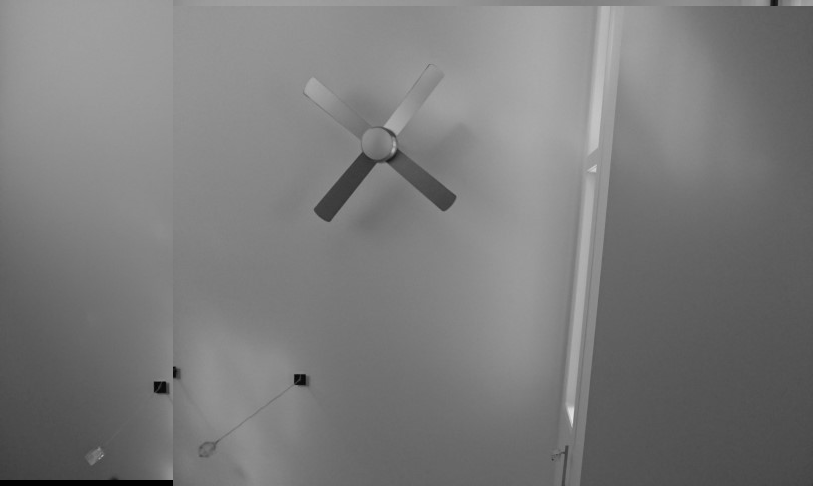
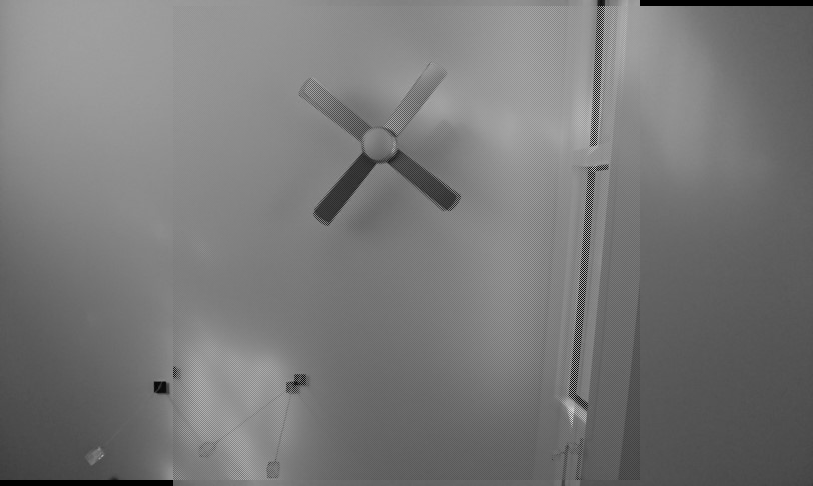
Starting to break up the code into methods and to look at the dithering

diff --git a/map_building/test.py b/map_building/test.py
@@ -12,22 +12,11 @@ import cv2
 import statistics
 
 
-def go(existing, new, out):
-    img_new = cv2.imread(new, 0)  # Taken 1m away.
-    img_existing = cv2.imread(existing, 0)  # Initial/existing/baseline image.
+def offsets(matches, kp_existing, kp_new):
+    """Given SIFT and knnMatch data, return the offset between the images.
 
-    sift = cv2.xfeatures2d.SIFT_create()
-
-    kp_new, des_new = sift.detectAndCompute(img_new, None)
-    kp_existing, des_existing = sift.detectAndCompute(img_existing, None)
-
-    FLANN_INDEX_KDTREE = 1
-    index_params = dict(algorithm=FLANN_INDEX_KDTREE, trees = 5)
-    search_params = dict(checks=50)   # or pass empty dictionary
-    flann = cv2.FlannBasedMatcher(index_params, search_params)
-
-    matches = flann.knnMatch(des_new, des_existing, k=2)
-
+    Assumes some overlap.
+    """
     offsets_x = []
     offsets_y = []
     for i,(m, n) in enumerate(matches):
@@ -43,45 +32,68 @@ def go(existing, new, out):
     offset_x = int(statistics.median(offsets_x))
     offset_y = int(statistics.median(offsets_y))
 
-    # Pad out existing with transparency.
-    img_existing = cv2.copyMakeBorder(
-        img_existing,
-#        cv2.cvtColor(img_existing, cv2.COLOR_GRAY2RGBA),
-        -offset_y if offset_y < 0 else 0,
+    return offset_x, offset_y
+
+
+def add_to_map(img_map, img_new, offset_x, offset_y):
+    """Apply a new image to an existing map and return."""
+    # Pad out new image to fit map size + offsets.
+    img_result = cv2.copyMakeBorder(
+        img_new,
         offset_y if offset_y > 0 else 0,
-        -offset_x if offset_x < 0 else 0,
+        -offset_y if offset_y < 0 else 0,
         offset_x if offset_x > 0 else 0,
+        -offset_x if offset_x < 0 else 0,
         cv2.BORDER_CONSTANT,
         value=(0, 0, 0)
     )
 
-    # position
-    if offset_x < 0:
-        # New is out to left.
-        if offset_y < 0:
-            # New is out above
-            img_existing[0:offset_y, 0:-offset_x] = img_new[0:, 0:-offset_x]
-            img_existing[0:-offset_y, -offset_x:] = img_new[0:-offset_y, 0:]
+    # Overlay the map
+    img_result[-offset_y:, -offset_x:] = img_map[0:, 0:]
+
+    # Re-overlay the new, dithered
+    out_row_start, out_row_size = 0, img_new.shape[0]
+    out_col_start, out_col_size= 0, img_new.shape[1]
+    img_result[
+        out_row_start:out_row_size:2,
+        out_col_start:out_col_size:2,
+    ] = img_new[
+        out_row_start:out_row_size:2,
+        out_col_start:out_col_size:2,
+    ]
+    img_result[
+        out_row_start+1:out_row_size:2,
+        out_col_start+1:out_col_size:2,
+    ] = img_new[
+        out_row_start+1:out_row_size:2,
+        out_col_start+1:out_col_size:2,
+    ]
+
+    return img_result
 
 
-    cv2.imwrite(out, img_existing)
+def go(existing_map, new, out):
+    img_new = cv2.imread(new, 0)  # Taken 1m away.
+    img_map = cv2.imread(existing_map, 0)  # Initial/existing/baseline image.
 
+    sift = cv2.xfeatures2d.SIFT_create()
 
-    # Pad out new with transparency.
-#    img_new = cv2.copyMakeBorder(
-#        cv2.cvtColor(img_new, cv2.COLOR_GRAY2RGBA),
-#        int(offset_y) if offset_y > 0 else 0,
-#        int(-offset_y) if offset_y < 0 else 0,
-#        int(offset_x) if offset_x > 0 else 0,
-#        int(-offset_x) if offset_x < 0 else 0,
-#        cv2.BORDER_CONSTANT,
-#        value=(0, 0, 0, 0)
-#    )
+    kp_new, des_new = sift.detectAndCompute(img_new, None)
+    kp_existing, des_existing = sift.detectAndCompute(img_map, None)
 
-#    img_result = cv2.addWeighted(img_new, 0.5, img_existing, 0.5, 0)
+    FLANN_INDEX_KDTREE = 1
+    index_params = dict(algorithm=FLANN_INDEX_KDTREE, trees = 5)
+    search_params = dict(checks=50)   # or pass empty dictionary
+    flann = cv2.FlannBasedMatcher(index_params, search_params)
 
-#    cv2.imwrite(out, img_result)
+    matches = flann.knnMatch(des_new, des_existing, k=2)
+
+    offset_x, offset_y = offsets(matches, kp_existing, kp_new)
+
+    img_updated_map = add_to_map(img_map, img_new, offset_x, offset_y)
+
+    cv2.imwrite(out, img_updated_map)
 
 
 if __name__ == '__main__':
-    go('first.jpg', 'second.jpg', 'matches1.png')
+    go('first.jpg', 'second.jpg', 'combined.png')
